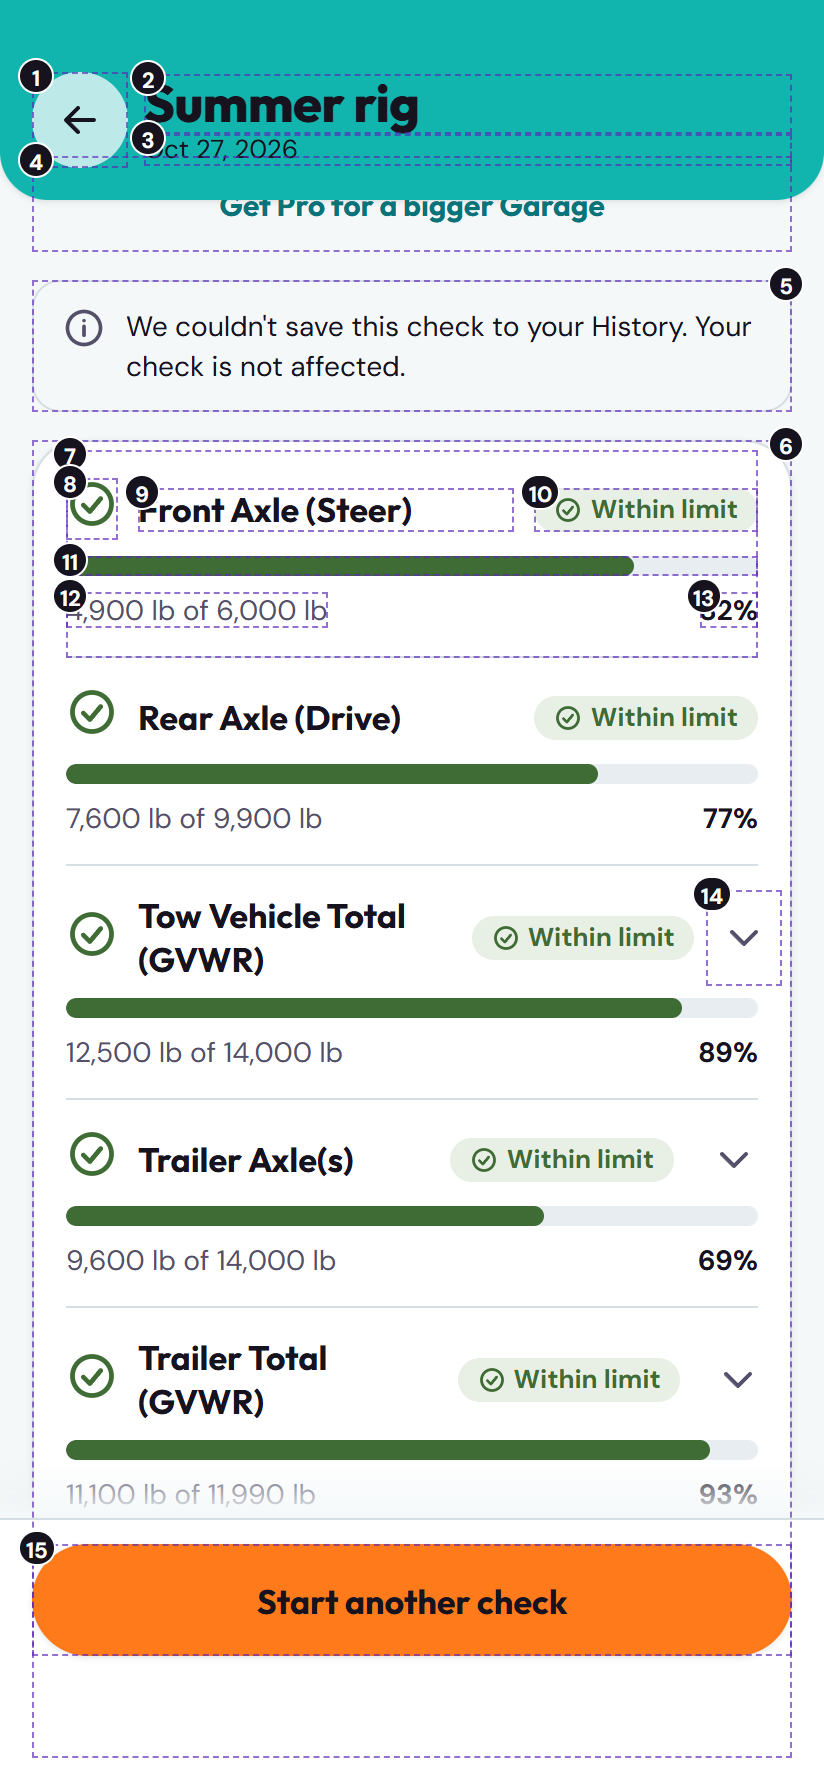
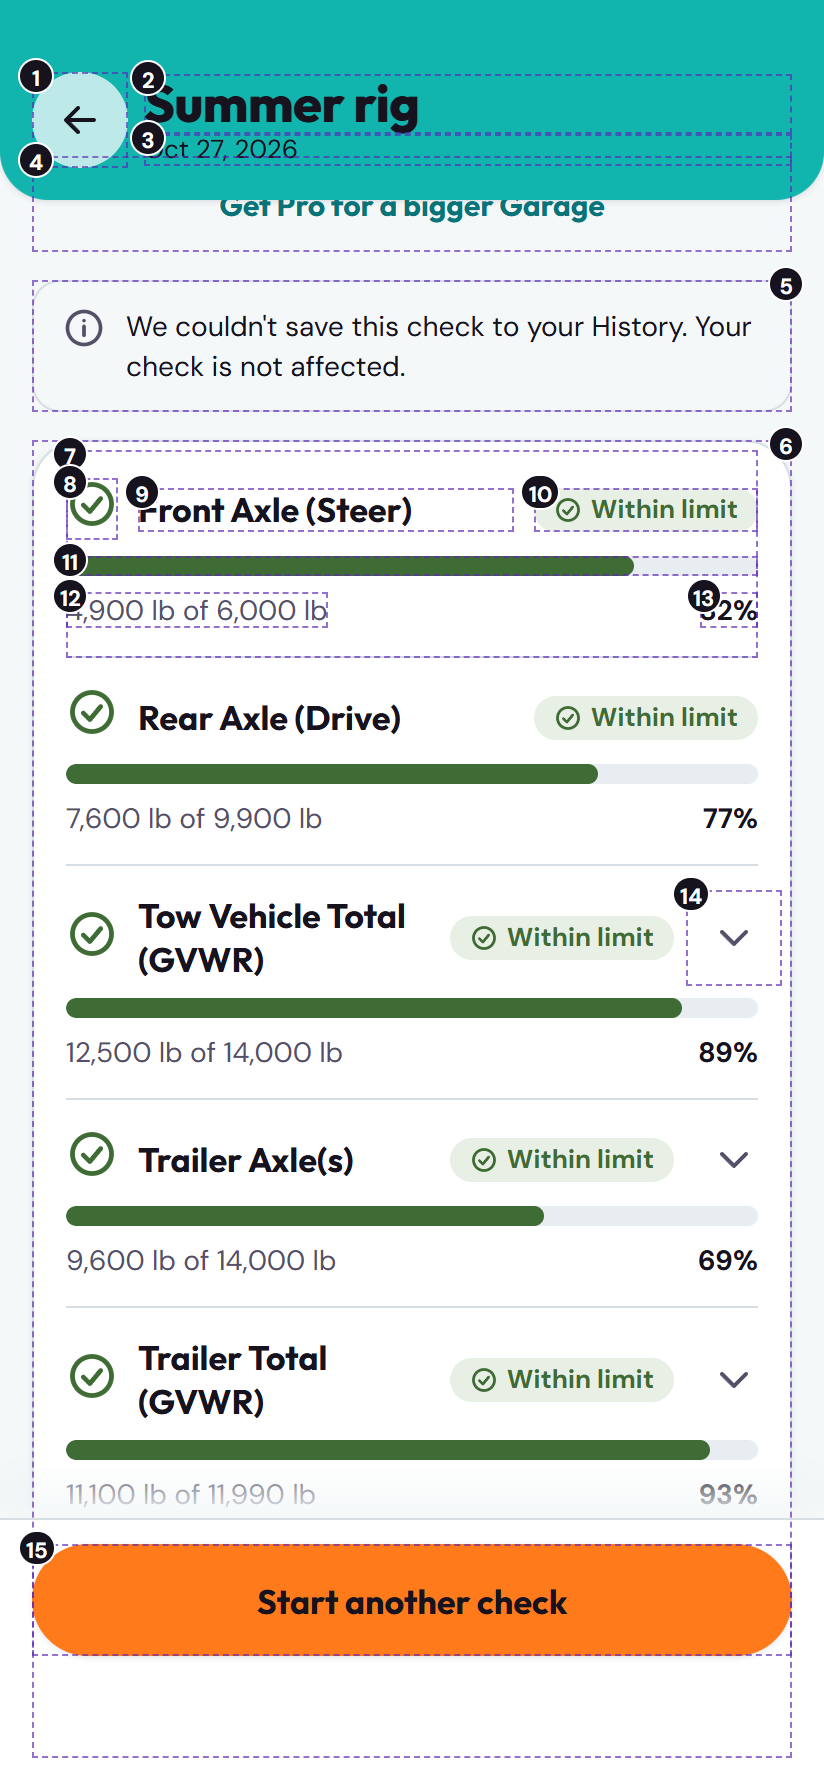
Address review of the #190 hand-back
Flag the pinned reference crop as a new function (two added elements), fix the
row chevron and pin-weight slider sizes, give the verdict icon its own style,
drop board-only ids from the legends, extend components.md with the missing
ids and states, and correct the README.

Changed region(s): [[0.5461, 0.4933, 0.9102, 0.5549], [0.5461, 0.7707, 0.8192, 0.8016], [0.8799, 0.7707, 0.9102, 0.8016]]

diff --git a/docs/android-redesign/design-return/components.md b/docs/android-redesign/design-return/components.md
@@ -30,7 +30,7 @@ Used on every screen except Disclaimer and Splash.
 - Label above (`label`, `ink`), then a 56 dp box: 1.5 dp `border-strong`, 8 dp radius, 16 dp side padding, value `body` 17 sp, unit hint ("lb") right-aligned in `ink-muted` 15 sp, placeholder in `ink-muted`. Optional help line under it (`caption`, `ink-muted`).
 - **Focused:** 2 dp `teal-deep` border plus a 4 dp `tint-teal` ring, caret in `teal-deep`.
 - **Error:** 2 dp `danger` border, message line in `danger-text` (`body-sm`, 500). Not colour alone: the message names the problem.
-- **Disabled:** 70% opacity, `#eeeaf3` fill.
+- **Disabled:** `disabled-fill` background at 70% opacity. No frame draws a disabled field.
 - Numeric fields use the number keyboard. Hint numbers on the Scale screen carry an orange badge (22 dp, `ink` digit) in front of the label.
 - **Ids:** all `*_field`, `picker.new_rig_input`, `account.email_field`, `account.password_field`.
 
@@ -74,7 +74,7 @@ Used on every screen except Disclaimer and Splash.
 - Row: 26 dp status icon, label `title-sm`-ish (Outfit 700 17), status badge, optional chevron (48 dp target, only when the row has a note). Under it a 10 dp rounded progress bar (track `#e7edf0`; fill `pine`, `danger` or `slate`) and a line with "A lb of B lb" (`body-sm`, `ink-muted`) at the left and the percentage (700) at the right. A fill over 100% is clamped at the bar's end.
 - Expanded: the note appears under the row in a `surface-sunken` block (`body-sm`); 200 ms expand.
 - Tones: pass (check-circle, "Within limit"), fail (x-circle, "Over limit", percentage in `danger-text`), not checked (info-circle, "Not checked", 0%).
-- **Ids:** `results.row` and its parts, `results.row_badge`, `results.row_chevron`, `results.breakdown_card`.
+- **Ids:** `results.row` and its parts (`results.row_icon`, `results.row_label`, `results.row_values`, `results.row_pct`, `results.row_bar`, `results.row_note`), `results.row_badge`, `results.row_chevron`, `results.breakdown_card`, `results.verdict_icon` (64 dp circle with a 36 dp icon).
 
 ## Badge
 - Pill, 2 x 10 padding, `badge` text, optional 14 dp icon. Kinds: credit (`purple` / white), free (`pine` / white), within limit (`tint-green` / `pine`), over limit (`tint-red` / `danger-text`), partially checked (`tint-purple` / `purple-deep`), not checked (`surface-sunken` with 1 dp `border-strong` / `ink-muted`), plan (`tint-teal` / `teal-deep`).
@@ -87,24 +87,28 @@ Used on every screen except Disclaimer and Splash.
 ## Reference card (pinned crop) and reference image
 - Pinned under the top bar on Truck and Trailer: white card, 24 dp radius, shadow `md`, 12 dp padding. Caption row (search icon, "Tap a field to see its spot on the tag", and a plan-coloured badge naming the focused field), then a crop of the label showing three lines with the focused line outlined 2.5 dp in `orange` on `tint-orange`.
 - Scale ticket: the image sits in the scroll with orange numbered badges (24 dp) drawn on it; legend pills below match the badges on the field labels.
-- **Ids:** `truck.reference_image`, `truck.reference_hint`, `trailer.reference_image`, `trailer.reference_hint`, `scale.reference_image`, `scale.legend`.
+- **Ids:** `truck.reference_image`, `truck.reference_hint`, `truck.reference_focus_badge`, `trailer.reference_image`, `trailer.reference_hint`, `trailer.reference_focus_badge`, `scale.reference_image`, `scale.legend`.
+- The focused-field badge and the crop need a stored crop rectangle per field. That is new data (see `interaction-notes.md`).
 
 ## Panel (tinted block)
 - 24 dp radius, 16 dp padding, 12 dp gaps. Purple tint (new-rig panel) or orange tint (stand-alone weight panel).
 - **Ids:** `picker.new_rig_label` (inside), `truck.standalone_panel`.
 
 ## Offer card
+- **Ids:** `paywall.offer_card`, `paywall.offer_title`, `paywall.offer_description`, `paywall.buy_button`.
+- **States:** default; buttons disabled while a purchase is busy (frame `paywall__free_busy`).
 - Free: one large card, `tint-purple` fill, 1.5 dp `purple-deep` border, 24 dp radius, title `offer-title`, description `body-md`, full-width primary button with the store price. Pro: one white row card per pack with the title, description and a compact primary price button; the price text comes from the store ("$4.99", "CA$12.99 one time"), so the button grows and never truncates.
 
 ## Slider
+- **Ids:** `truck.pin_weight_slider`. The element is 48 dp tall. States: default (frame `truck_tag_entry__standalone_pin_weight`); pressed thumb grows to 32; hidden when the stand-alone field has a value.
 - 4 dp track (`border`), `teal-deep` fill, 28 dp thumb with a 3 dp `teal-deep` ring and white centre, 48 dp touch height. 15 to 25%, default 20%.
 
 ## Progress bar, spinner, toast, empty state, divider
-- **Progress bar:** 10 dp, fully rounded.
-- **Spinner:** 40 dp (48 in the Scan overlay), 4 dp ring in `border` with a `teal-deep` arc.
-- **Toast (snackbar):** `ink` fill, white `body-md`, 14 dp radius, 16 dp margins, sits above the pinned footer.
-- **Empty state:** dashed 2 dp `border-strong`, 24 dp radius, `surface-sunken` fill, 56 dp logo, title and text.
-- **Divider:** 1 dp `border`.
+- **Progress bar:** 10 dp, fully rounded. Id `results.row_bar`. States: pass, fail, not checked (colours above).
+- **Spinner:** 40 dp (48 in the Scan overlay), 4 dp ring in `border` with a `teal-deep` arc. Ids `paywall.loading`. Indeterminate; rotation is the essential animation.
+- **Toast (snackbar):** `ink` fill, white `body-md`, 14 dp radius, 16 dp margins, sits above the pinned footer. Id `paywall.toast`. Shown 4 s, then fades.
+- **Empty state:** dashed 2 dp `border-strong`, 24 dp radius, `surface-sunken` fill, 56 dp logo, title and text. Ids `picker.empty_state`, `history.empty`.
+- **Divider:** 1 dp `border`. Id `account.divider`.
 
 ## Overlay (Scan in flight)
 - White at 88% over the whole screen including the top bar, centred spinner and "Reading…". Blocks every tap, including Back and the account row.

diff --git a/docs/android-redesign/design-return/README.md b/docs/android-redesign/design-return/README.md
@@ -8,8 +8,8 @@ Editable design canvas (private to the owner): https://claude.ai/artifact/VQMbZM
 
 | # | Deliverable | File |
 |---|---|---|
-| 1 | Redesign map: the inventory with `redesign` filled for every one of the 150 ids, plus 24 `added_elements` | [ui-redesign-map.json](ui-redesign-map.json) |
-| 2 | Annotated frames, 412 x 892 dp at 2x (824 x 1784 px), one per screen per state | [annotated/](annotated/), legends in [annotation-legends.json](annotation-legends.json) |
+| 1 | Redesign map: the inventory with `redesign` filled for every one of the 150 ids, plus 26 `added_elements` | [ui-redesign-map.json](ui-redesign-map.json) |
+| 2 | Annotated frames, 412 x 892 dp at 2x (824 x 1784 px), one per screen per state. The one exception is `app_icon__launcher.png`, a 900 x 620 dp sheet of icon masks and layers (not a screen), with no element tags | [annotated/](annotated/), legends in [annotation-legends.json](annotation-legends.json) |
 | 3 | Tokens, text styles, Material 3 mapping | [tokens.json](tokens.json) |
 | 4 | Components | [components.md](components.md) |
 | 5 | Copy changes | [copy-changes.md](copy-changes.md) |
@@ -22,7 +22,7 @@ Editable design canvas (private to the owner): https://claude.ai/artifact/VQMbZM
 - Totals: 125 restyled, 16 moved, 8 replaced, 1 removed (`picker.header_divider`, replaced by the top bar's rounded edge), 0 kept, 0 merged, 0 split.
 - `new_region`, `new_width`, `new_height` and `new_order` are **measured from the frames**, not estimated. `new_order` is the reading order in the frame named in `notes`. A `new_width` of `fill` means the element spans the content column (16 dp side margins). The `today` values are still the inventory's estimates: the baseline frames from #189 did not exist yet (owner decision 3 was "wait for #189", and the design was started from the inventory and the live Web app instead).
 - `new_test_tag` equals `test_tag_new` for every existing id; added elements use their id with dots as underscores.
-- No element has `needs_new_function = true`. Everything added has an existing function behind it (sign-out and the balance already exist).
+- Two added elements have `needs_new_function = true`: `truck.reference_focus_badge` and `trailer.reference_focus_badge`. The pinned reference crop needs a stored crop rectangle per field (fractions of the photo), which is new data. Under the brief's rule it should become its own ticket after the re-skin; until then the card can show the whole label with no highlight. Everything else added has an existing function behind it (sign-out and the balance already exist).
 - A repeated element (rig card, history entry, result row, field) carries its ids on the first instance in the frame only.
 
 ## Frames
@@ -47,6 +47,8 @@ States in the inventory that are not drawn as their own frame, and why:
 - Balance 0, 1, many: only the chip text differs (see `tokens.json` and `components.md`).
 - 5 or more rigs, many history entries: the list scrolls; `few_entries` shows the card pattern.
 - Signed in versus signed out garage or history: same look.
+- Trailer axle count blank versus filled: `blank` and `filled` show it. History "all four verdict labels": `few_entries` shows all four.
+- Paywall "3-button bar overlapping Restore": every Paywall frame has Restore in the pinned footer with 64 dp bottom padding, which fixes it.
 - Truck "image zoom active": replaced by the pinned crop; `filled` and `keyboard_open` show it following a field.
 - Scan error dialog on the Truck screen: same dialog as on the Chooser.
 - Results with and without the Combined row: `safe` shows six rows; `partially_checked` and `not_enough_information` show five.
@@ -59,7 +61,8 @@ States in the inventory that are not drawn as their own frame, and why:
 3. Timing: wait for #189 (answered on the ticket on 2026-10-27). That did not happen before this round; see below.
 
 ## Open items for the owner
-- **Post the DECISIONS comment.** Decisions 1 and 2 were answered in the design session, not yet on the ticket, so the first acceptance criterion is not met until they are recorded in a `DECISIONS` comment on #190.
+- **Decide on the crop rectangles.** See the `needs_new_function` note above: keep the pinned crop (new data, own ticket) or fall back to the whole label.
+- **The Truck screen now has a scan balance chip** (`truck.credit_chip`), because it has a paid stand-alone Scan button. The brief said to keep the chip "on the screens that show it"; this is one more screen. Say if you would rather not.
 - **Approve or replace the mark.** `assets/` holds a simplified geometric redraw of the logo, not the painted logo itself.
 - **Fonts.** Bundle Outfit and DM Sans (about 300 KB) or keep runtime loading with a fallback. See `tokens.json`.
 - **Placeholders in the frames:** the label crop on Truck and Trailer, the ticket image on Scale, and the Google glyph on Account. Production uses the real photos (keep the redacted VIN block) and Google's official asset.

diff --git a/docs/android-redesign/design-return/interaction-notes.md b/docs/android-redesign/design-return/interaction-notes.md
@@ -12,7 +12,7 @@ A pinned crop that follows the focused field. The old hover and the press-and-ho
 - With no field focused it shows the first three lines and the hint "Tap a field to see its spot on the tag".
 - No gesture is needed anywhere. (A tap on the card to open the full photo with pinch zoom would be a nice extra, but it is a new function: if wanted, raise it as its own ticket after the re-skin.)
 - Why not tap-and-hold: it is hidden, and it hides the thing you are trying to type next to. A pinned card needs no gesture and stays visible while the keyboard is open.
-- In the frames the crop is a placeholder drawn from text. In the app, crop the real photo (keep the redacted VIN block). Each field needs a crop rectangle stored as fractions of the photo.
+- In the frames the crop is a placeholder drawn from text. In the app, crop the real photo (keep the redacted VIN block). Each field needs a crop rectangle stored as fractions of the photo. **That is new data and a new function**, so the two focus badges are flagged `needs_new_function` in the map; if the owner prefers, the card can show the whole label with no highlight until a follow-up ticket adds the rectangles.
 
 ## Scale ticket
 No pinned card. The ticket image carries numbered orange badges (1 to 5). The same numbers sit on the field labels and in the legend pills, so the match is by number, not by hover.
